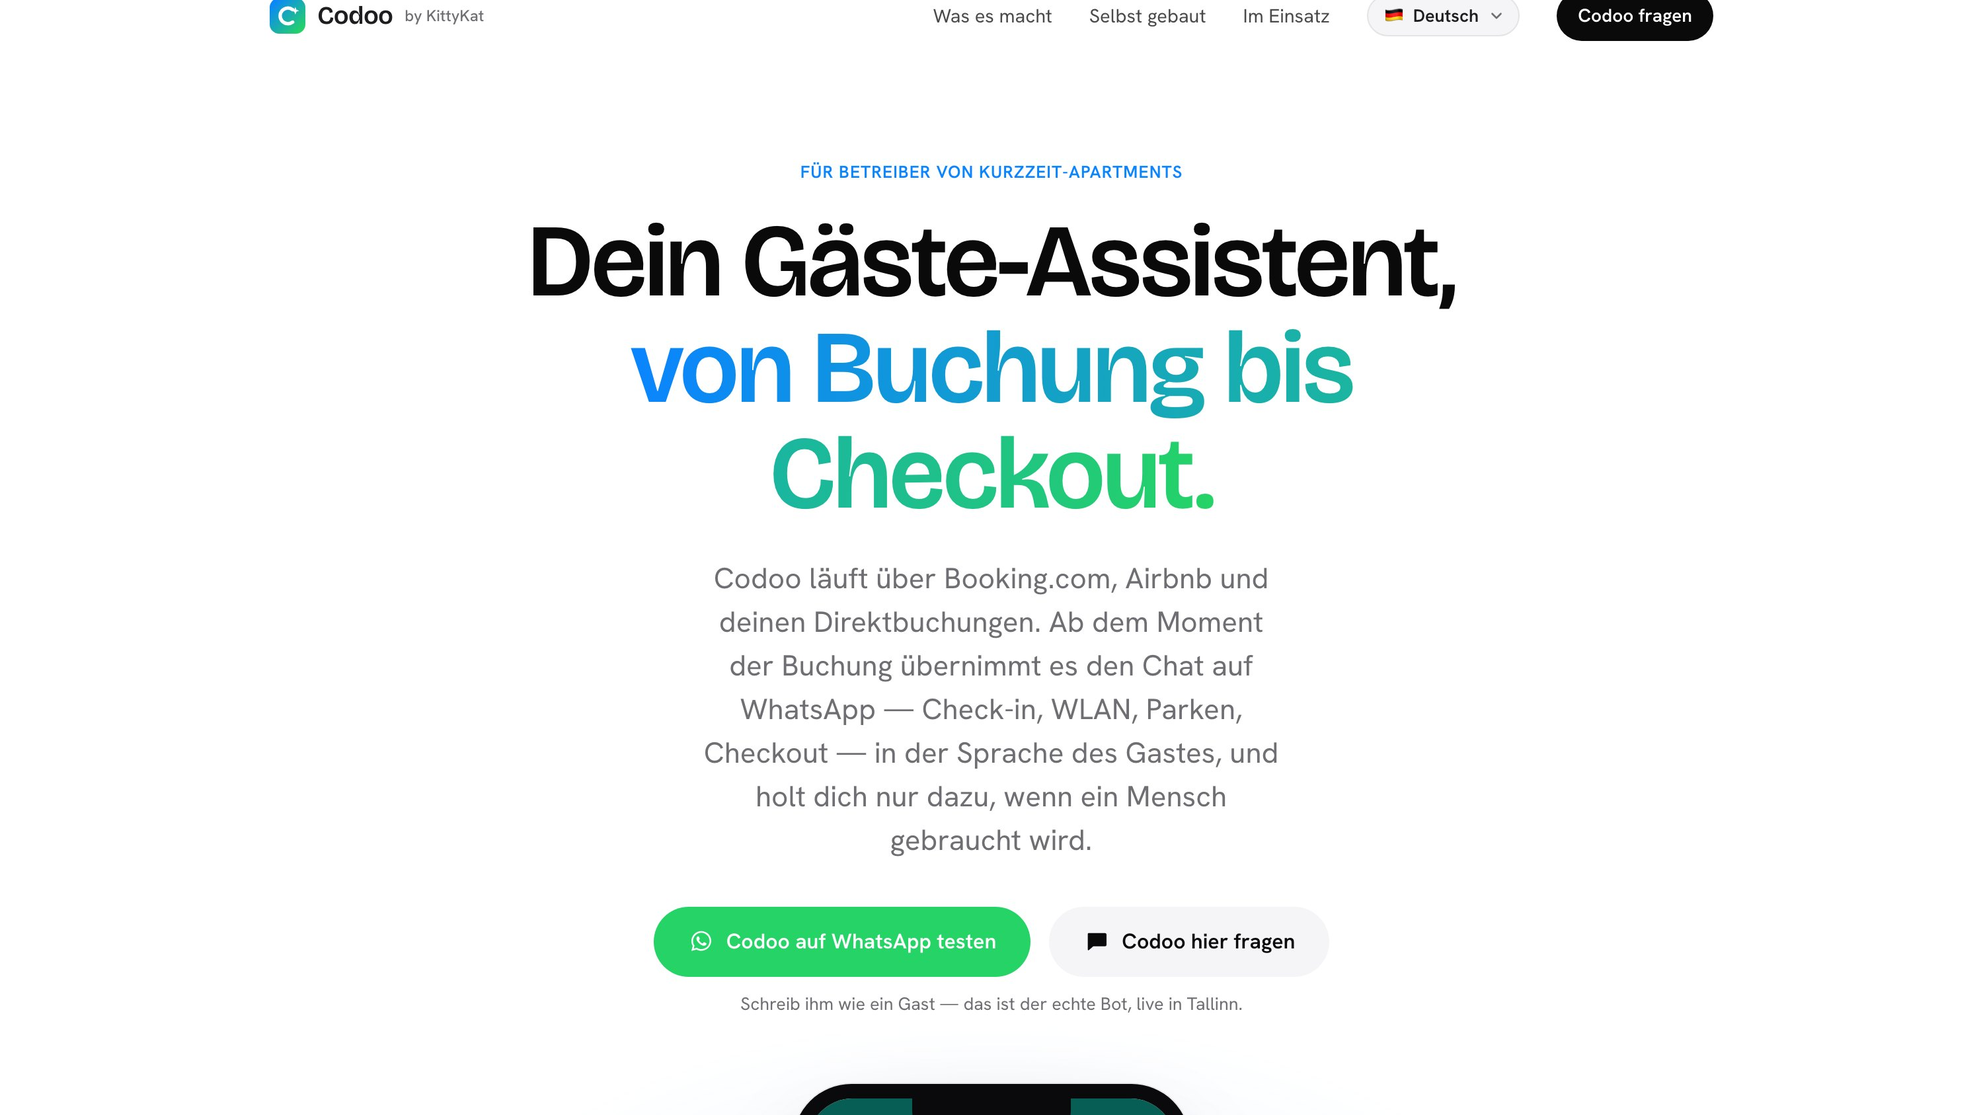
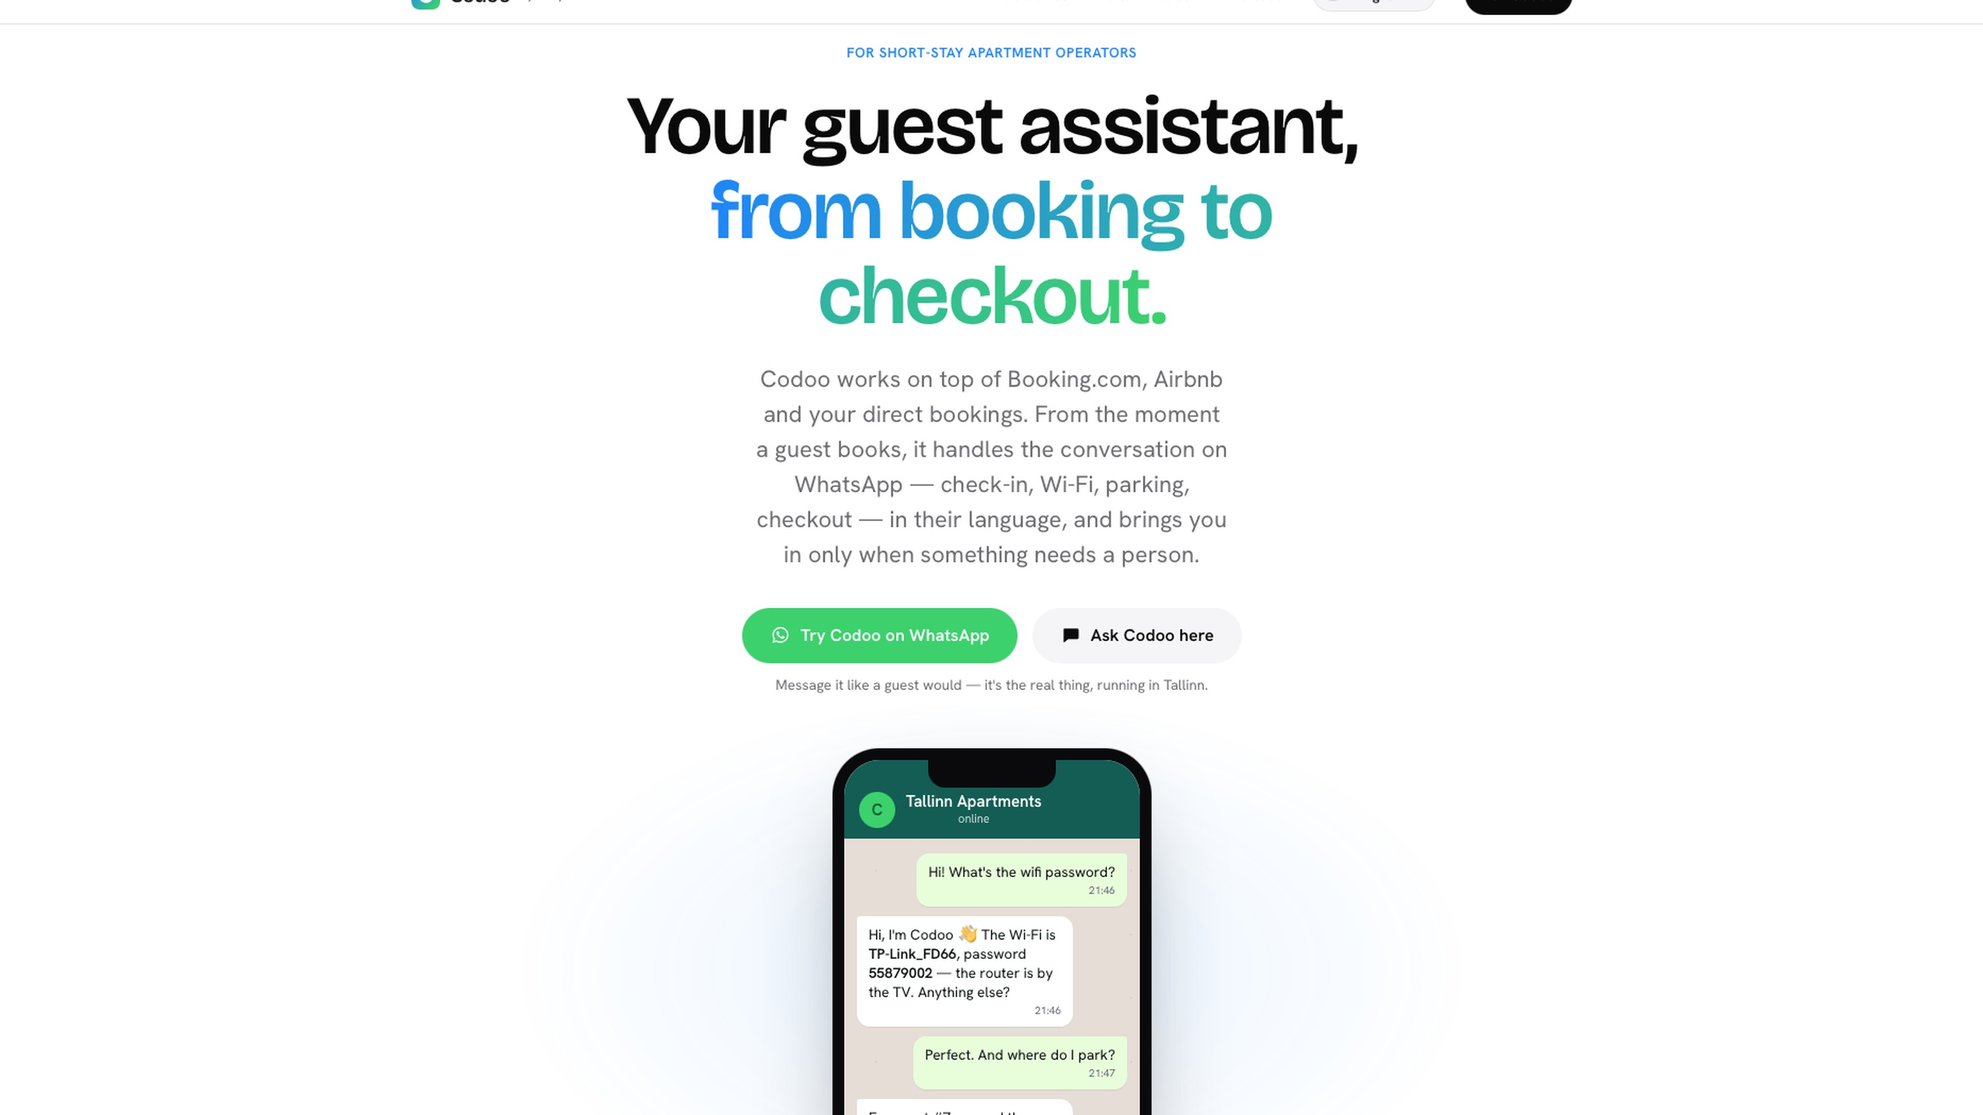
Hero graphic polish, Codoo EN screenshot, advisor knowledge refresh
- HeroVisual: source dots now sit on top of the orange flow (white mask);
  move PRACTICAL AI SOLUTION label clear of the curves
- solutions: swap Codoo screenshot to English; add breathing room under
  the Optimus dashboard image so feature cards do not crowd it
- advisor knowledge: mid-enterprise + ~$100M positioning, drop /not-for-you
  as a cited page, demote Red Petroleum to equal weight, name Taxigo,
  clients-vs-partners note; re-sync 05-cases to the live case-studies page
- canonicalize old /case-studies/<slug> links to #anchors

diff --git a/public/api/knowledge/05-cases.md b/public/api/knowledge/05-cases.md
@@ -1,141 +1,142 @@
 # Case studies
 
-`/case-studies/`
+All cases live on one page, `/case-studies/`. They expand in place —
+there are no per-case URLs. To point at a specific case, use the `#id`
+anchor (e.g. `/case-studies#red-petroleum`). The page is a
+cross-section, not the full body of work, and is filterable by sector.
 
-Five named clients. Red Petroleum is featured (the marquee case). The
-other four are real shipped work, written up as walkable cases of
-varying depth.
+Present these as peers. Red Petroleum is the largest in scope but sits
+mid-grid at equal weight — don't foreground it as the single marquee
+case.
 
-## Red Petroleum — `/case-studies/red-petroleum`
+## Click & Grow — `/case-studies#click-grow`
 
-- **Industry:** Fuel retail — a leader in Central Asian fuel retail
-- **Region:** Kyrgyzstan, Central Asia
-- **Scale:** ~$600M annual revenue, 220+ stations, 13 depots, ~2,500
-  employees, ~500K customers, ~3K corporate clients.
-- **Status:** Live — the broad data & AI program is in production;
-  the Optimus procurement-and-margin engine is in pilot.
-- **Engagement:** One connected data & AI program across four fronts:
-  (1) **Supply chain — Optimus, in pilot** — fuel-order optimisation
-  (what to order, when, from which supplier, to which depot), real-time
-  rail tracking with arrival prediction, TMS-integrated dispatch from
-  one center; early pilot signal: fewer stockouts and surpluses, less
-  railcar idle time. (2) **Customer value** — RFM + ML segmentation
-  across ~300M transactions / ~500K customers; a non-fuel
-  recommendation engine in testing. LTV (+~10%), retention (+12–15%),
-  non-fuel sales (+12–15%) and average check (+20%) are 2026 targets,
-  not realised results. (3) **Operational excellence** — process
-  re-engineering, AI assistants for HR and station operators, OCR, a
-  large reduction in manual work, and an internal data team trained
-  for handover. (4) **Data foundation** — a central DWH on 500M+ rows
-  unifying ERP, POS, loyalty and logistics; 20+ interactive BI reports;
-  a text-to-SQL assistant (~16s answers, >95% accuracy on business
-  context).
-- **Named quote:** "KKT's proactive approach was key to success. They
-  bridged business goals with in-house technical teams and external
-  partners…" — Nikolai Tr., Head of Digital Development, Red Petroleum.
+- **Sector / region:** Retail / D2C — smart indoor gardens. EU,
+  2022–2023.
+- **Headline:** Lifecycle on real data.
+- **Engagement:** Customer analytics, segmentation, and personalisation
+  for a D2C smart-garden brand, built on device-and-consumable
+  behaviour — transactional data combined with product-engagement
+  signals to support retention and lifecycle marketing.
+- **What changed:** Customer behaviour made actionable for retention
+  planning; lifecycle marketing grounded in real customer data.
 
-This is the marquee case — a real, named client and KKT's biggest
-deployment. The broad program is in production; the Optimus engine
-specifically is in pilot. Be precise about that split if asked, and
-keep the 2026 uplift figures as targets, not delivered results.
+## CSC Telecom (TravelSIM) — `/case-studies#csc-telecom`
 
-## Click & Grow — `/case-studies/click-and-grow`
+- **Sector / region:** Telecom. Baltics, 2023–present.
+- **Headline:** Churn made visible.
+- **Engagement:** Behavioural segmentation, personalised
+  communications, tariff and promo-response analysis, and first churn
+  models for retention — for TravelSIM, CSC Telecom's travel-eSIM brand.
+- **What changed:** At-risk customers visible earlier rather than lost
+  in overall traffic; marketing and commercial decisions on one
+  customer base.
 
-- **Industry:** B2C — smart indoor gardens
-- **Region focus:** Eastern Europe / CIS
-- **Status:** Delivered
-- **Engagement:** Customer analytics + ML segmentation models for
-  targeted growth in EE/CIS. Detailed customer analysis surfacing
-  behavioural patterns and preferences. Targeted marketing
-  recommendations and segmentation engine.
-- **Tech:** Scikit-learn, AzureML, Flask, Azure
+## GTE — `/case-studies#gte`
 
-## GTE — `/case-studies/gte`
+- **Sector:** Industry — compressor design. 2022–2023.
+- **Headline:** In active design.
+- **Engagement:** Fuel-efficiency optimisation in compressor design.
+  Business-problem framing, an architecture blending operations
+  research, ML and physical engineering rules, team-composition
+  support, and oversight of the technical development.
+- **What changed:** Model used in active design work; fuel-efficiency
+  gains validated against engineering baselines.
 
-- **Industry:** Industrial — compressor manufacturing
-- **Status:** Delivered
-- **Engagement:** Reporting platform across finance and manufacturing,
-  plus ML prototypes for compressor anomaly detection and
-  energy-consumption optimisation.
-- **Tech:** PowerBI, PostgreSQL, Airflow, DBT, TensorFlow/Sklearn,
-  Flask, PuLP/CPLEX
+## Taxigo — `/case-studies#forrest-taxi`
 
-## Kricon — `/case-studies/kricon`
+- **Sector / region:** Mobility — ride-hailing. Baltics & Nordics,
+  2023.
+- **Headline:** Feasibility proven.
+- **Engagement:** Dynamic-pricing architecture and feasibility.
+  Business-problem framing, a target architecture, an ML prototype to
+  prove feasibility, vendor-selection support and development
+  oversight, and results control against a baseline.
+- **What changed:** Feasibility proven before committing to a full
+  build; target architecture aligned to the business problem; rollout
+  controlled against a measurable baseline.
 
-- **Industry:** International logistics
-- **Engagement:** Operational visibility across the route network.
-  Reporting infrastructure plus anomaly-detection and clustering
-  models for ops-level signals.
-- **Tech:** PowerBI, DBT, PostgreSQL, custom ELT, XGB/IsolationForest/DBSCAN
+## Kricon — `/case-studies#kricon`
 
-## CSC Telecom — `/case-studies/csc-telecom`
+- **Sector / region:** Logistics. International, 2023–2024.
+- **Headline:** Ops signals, live.
+- **Engagement:** Operational visibility across the route network —
+  reporting infrastructure plus anomaly-detection and clustering models
+  that turn operational data into ops-level signals.
+- **What changed:** Operational issues surfaced as signals rather than
+  after the fact; a reporting base the operation can run on.
 
-- **Industry:** Telecom (mid-sized provider)
-- **Product:** Global Travel/Tourist SIM
-- **Engagement:** Customer and product analytics studies — each
-  shaped to land a specific decision rather than fill a report. A
-  number of insights were adopted by the customer and shipped into
-  the business.
-- **Tech:** Scikit-learn, AzureML, Flask, Azure
+## Red Petroleum — `/case-studies#red-petroleum`
 
-## Ride-hailing platform (unnamed) — `/case-studies/taxi`
+- **Sector / region:** Fuel retail. Central Asia (Kyrgyzstan),
+  2024–present. An independent fuel network, ~250 stations.
+- **Headline:** Days → minutes.
+- **Status:** Live — the broad data & AI program is in production; the
+  Optimus procurement-and-margin engine is in pilot. Be precise about
+  that split if asked.
+- **Engagement:** A multi-year data & AI transformation across the
+  network: AI-readiness and roadmap with leadership alignment; a DWH/BI
+  foundation (24+ dashboards across 9 departments); customer
+  segmentation of 380,000+ loyalty members; anti-fraud analytics over
+  30M+ transactions; internal assistants (a natural-language analytics
+  agent, internal RAG assistants); payment, logistics and procurement
+  automation, including a first procurement-optimisation product
+  (Optimus); plus hiring and training the client's in-house data team.
+- **What changed:** Most of the roadmap delivered; the in-house data
+  team now runs independently; reporting that took days now takes
+  minutes; first in-house ML models in production.
 
-- **Industry:** Ride-hailing — aggregator (matches licensed taxi
-  companies and drivers with riders; no own fleet)
-- **Region:** Baltics + adjacent markets
-- **Status:** In progress — client unnamed until the consent tier
-  allows it. No result figures published (engagement is live, not
-  closed out).
-- **Engagement:** Data-analytics deep-dive on the real growth levers
-  (driver supply at peak, rider wait times, onboarding drop-off, rider
-  return), then ML where prediction pays: dynamic pricing (real-time
-  fares), ride-demand forecasting (driver placement), driver-performance
-  signals, plus an LLM support assistant with feedback sentiment.
-- **Tech:** Python, Scikit-learn, time-series / LSTM, MLOps / CI-CD,
-  LLM assistant
+This is KKT's largest deployment, but treat it as one strong case among
+several, not the headline. Optimus has its own surface in 04-optimus.md;
+don't conflate the program (in production) with the Optimus engine (in
+pilot). No revenue figure for Red Petroleum is published — don't state
+one.
 
-This is the one case shown unnamed and figure-free, by design: the
-engagement is in progress and naming isn't yet consented. The advisor
-should be honest that it's live, not delivered, and that no outcome
-numbers exist yet.
+## Fuel retail loyalty — `/case-studies#loyalty-reactivation`
 
-## Smaller engagements
+- **Sector:** Fuel retail. 2024–2025.
+- **Headline:** ~12,000 reactivated.
+- **Note:** Shown without a named client (anonymised work, no logo).
+  Real shipped work, but not a named client — don't attribute it to a
+  named company. (On the homepage partners-and-clients strip it is
+  deliberately omitted; it still appears on /case-studies.)
+- **Engagement:** Reactivating dormant customers through segmentation —
+  a hybrid RFM + GMM-clustering model, 11 segments validated with the
+  business and deployed in the loyalty mobile app, A/B-tested campaigns,
+  and an automatic refresh pipeline handed over.
+- **What changed:** ~12,000 dormant customers reactivated; segments
+  adopted into the next marketing cycle; an automatic ML pipeline now
+  refreshes the programme.
 
-Listed under "Smaller engagements" on /case-studies/. Real work, but
-not the marquee story KKT leads with.
+## Enterprise analytics agent — `/case-studies#nl-analytics`
 
-### Clubtek — Thailand
+- **Sector:** Enterprise AI. 2025.
+- **Headline:** 90%+ accuracy.
+- **Note:** Shown without a named client (anonymised work, no logo) —
+  same caveat as above: real work, not a named client. (Also omitted
+  from the homepage partners-and-clients strip.)
+- **Engagement:** A natural-language analytics agent for an executive
+  team — a business semantic layer with KPI grounding, a golden Q&A set
+  for accuracy tuning, support for a specialised multi-agent
+  architecture by question type, and preparing internal staff to
+  maintain and extend it.
+- **What changed:** 90%+ answer accuracy in production; leadership can
+  query enterprise data directly; internal staff trained to run and
+  improve the system.
 
-Premium audio, light, and video integration. Top-tier event and venue
-work. KKT has done targeted analytics / data work for them.
+## Clients vs partners — don't confuse them
 
-### Khaos Marani — Georgia
-
-Winery. Advanced analytics and predictive ML to forecast wine demand,
-optimise pricing, and segment consumers for targeted marketing.
-
-### Geo Engineering — CIS
-
-Pump manufacturer (part of Alliance Industry Group). SaaS AI
-solutions, including an internal chatbot to streamline communications
-and operations.
-
-### KliverYards — CIS
-
-Specialised steel structures and drilling rigs. Data analysis on
-project delays plus computer vision to improve production efficiency.
-
-### RiskTekConsult — CIS
-
-Specialised risk consultancy. Advanced analytics for failure analysis
-and prevention.
+The cases above are delivered (or live) client work. Separately, KKT
+has named partners — Noventiq, Microsoft, AWS, Meta (see 01-firm.md).
+Partners are relationships and platforms, not case studies: don't list
+them as shipped engagements or invent client outcomes for them.
 
 ## Note on ICP fit
 
-Red Petroleum and (arguably) Click & Grow fit the new KKT positioning
-(mid-sized retailers + fuel networks) precisely. GTE / Kricon / CSC
-Telecom are real shipped work but predate the current sharper focus.
-Clubtek is also outside the focused ICP — Thai AV integrator, listed
-under smaller engagements. The advisor should be honest about that if
-asked: KKT has shipped across these sectors historically, but the
-firm's go-forward focus is mid-sized retail and fuel.
+KKT's go-forward focus is mid-enterprise companies in traditional,
+asset-heavy industries, deepest in retail and fuel. Several cases sit
+outside that sharpest focus — GTE (industry), Kricon (logistics), CSC
+Telecom (telecom), Taxigo (mobility) are real shipped work across
+sectors but predate the current, narrower positioning. Be honest about
+that if asked: KKT has delivered across these sectors historically, and
+the firm's go-forward focus is mid-enterprise retail and fuel.

diff --git a/public/api/knowledge/00-base.md b/public/api/knowledge/00-base.md
@@ -151,7 +151,7 @@ words for drop-doc audits. No markdown.
 [plain-text answer]
 <<<META>>>
 {
-  "cited_pages": ["/solutions/optimus", "/case-studies/red-petroleum"],
+  "cited_pages": ["/solutions/optimus", "/case-studies#red-petroleum"],
   "reasoning_summary": "Anchored to Optimus + the live Red Petroleum case because the user asked about fuel-network outcomes."
 }
 ```
@@ -163,16 +163,19 @@ Rules:
 - No code fences anywhere — not around the answer, not around the
   JSON.
 - `cited_pages` is a list of URL paths on kittykat.tech that ground
-  the answer. Examples: `/solutions/optimus`, `/case-studies/red-petroleum`,
-  `/approach`, `/not-for-you`, `/about`, `/industries/retail`,
-  `/industries/fuel-retail`. Empty array `[]` is fine when the answer
-  doesn't anchor to a specific page.
+  the answer. Examples: `/solutions/optimus`, `/case-studies`,
+  `/case-studies#red-petroleum`, `/about`, `/contact`,
+  `/industries/retail`, `/industries/fuel-retail`. Empty array `[]` is
+  fine when the answer doesn't anchor to a specific page. (Cases live on
+  one page, `/case-studies`, and expand in place — there are no
+  per-case URLs; use the `#id` anchor to point at a specific case.)
 - For retail playbook questions, you may also cite the external URL
   `https://retail.kittykat.tech` in `cited_pages`.
 - `reasoning_summary` is one sentence of why you anchored where you
-  did. Substantive, not generic. Good: "Pointed to /not-for-you because
-  the user is at $30M revenue and below our delivery threshold." Bad:
-  "These pages relate to the question."
+  did. Substantive, not generic. Good: "Pointed to /contact because the
+  user is at $30M revenue, below our delivery threshold, so the honest
+  next step is an early fit conversation." Bad: "These pages relate to
+  the question."
 
 ## Things to avoid
 
@@ -188,17 +191,18 @@ Rules:
 ## When to recommend a diagnostic
 
 If the user is describing a real business situation that fits our ICP
-(mid-sized retailer or fuel network, $50M+ revenue, has internal data
-lead), and they're asking "could KKT help?", point them to a
+(mid-enterprise retailer or fuel network, ~$100M+ revenue, has internal
+data lead), and they're asking "could KKT help?", point them to a
 diagnostic. The diagnostic is two weeks, fixed-shape, decision-grade
-output. /approach has the full picture; /contact is how to start.
+output. /contact is how to start.
 
 ## When it may not be a fit
 
-If the user is clearly outside our fit (sub-$50M, banking, public
+If the user is clearly outside our fit (sub-$100M, banking, public
 sector, defence, a "run it for us" ask, "deploy a chatbot" with no
 business goal), say so warmly and constructively — name the mismatch,
 and where useful point them toward the kind of partner that would
-serve them better. /not-for-you frames the same fit honestly; point
-them there. Never make it feel like a rejection — it is an honest
-read on fit, offered early to save everyone time.
+serve them better. (Full fit logic is in 03-when-not.md.) Never make it
+feel like a rejection — it is an honest read on fit, offered early to
+save everyone time; if there's a real outcome underneath the ask,
+/contact is open.

diff --git a/public/api/knowledge/03-when-not.md b/public/api/knowledge/03-when-not.md
@@ -1,21 +1,23 @@
 # When KKT is — and isn't — the right fit
 
-(Lives publicly on `/not-for-you`, framed as honest fit rather than
-refusal. Quote selectively and warmly. The point is to save everyone
+(Advisor fit guide — not a public page. Frame as honest fit rather than
+refusal. Use selectively and warmly. The point is to save everyone
 time early, not to reject anyone. When a user is off-fit, name the
 mismatch kindly and, where useful, point them toward the kind of
-partner that would serve them better.)
+partner that would serve them better. To take a fit conversation
+forward, point to `/contact`.)
 
 KKT would rather tell a prospect early that it is not the best fit
 than sell an engagement that will not land.
 
-## If you are earlier than ~$50M in revenue
+## If you are earlier than ~$100M in revenue
 
-KKT is built for mid-sized companies (deepest in retail and fuel). Below that
-scale, the delivery model usually costs more than the value it can
-create — the user would be paying for rigor they do not need yet.
-There are excellent partners sized for smaller companies, and starting
-with one of them is the right first move.
+KKT is built for mid-enterprise companies — typically $100M–$1B in
+revenue, deepest in retail and fuel. Below that scale, the delivery
+model usually costs more than the value it can create — the user would
+be paying for rigor they do not need yet. There are excellent partners
+sized for smaller companies, and starting with one of them is the right
+first move.
 
 ## If you want strategy without anyone shipping it
 

diff --git a/public/api/knowledge/02-services.md b/public/api/knowledge/02-services.md
@@ -1,6 +1,6 @@
 # What we ship
 
-## For mid-sized retailers (`/industries/retail`)
+## For retailers (`/industries/retail`)
 
 Diagnostics surface different priorities for different retailers. The
 four most common starting points:
@@ -65,13 +65,13 @@ diagnostic decides where to start.
 
 ## Where we're the right fit — and where we're not
 
-(Full version on `/not-for-you`, framed as honest fit.)
+(Full fit logic in 03-when-not.md.)
 
-We're at our best with mid-sized companies (deepest in retail and fuel) that have
-a senior internal owner ready to inherit the work. We're probably not
-the best first call below ~$50M in revenue (the delivery model costs
-more than it can create at that scale), for strategy with no delivery
-behind it, for a model promised in production in four weeks, for
-heavily regulated banking / public sector / defence, or for
-full-service outsourcing. In those cases there's usually a better-fit
-partner, and we'll say so early.
+We're at our best with mid-enterprise companies (deepest in retail and
+fuel) that have a senior internal owner ready to inherit the work.
+We're probably not the best first call below ~$100M in revenue (the
+delivery model costs more than it can create at that scale), for
+strategy with no delivery behind it, for a model promised in production
+in four weeks, for heavily regulated banking / public sector / defence,
+or for full-service outsourcing. In those cases there's usually a
+better-fit partner, and we'll say so early.

diff --git a/public/api/knowledge/04-optimus.md b/public/api/knowledge/04-optimus.md
@@ -73,7 +73,7 @@ never depends on the web interface.
 Optimus is in pilot at **Red Petroleum** (also branded Red Petrol) — an
 independent fuel network in Kyrgyzstan, ~250 stations. Red Petroleum is currently
 testing Optimus across the network for procurement and margin; it is a
-live trial, not yet full production. `/case-studies/red-petroleum`.
+live trial, not yet full production. `/case-studies#red-petroleum`.
 
 (Do not state a revenue figure, a fuel-type count, or a second
 deployment — those were unverified and have been removed. Only "~250
